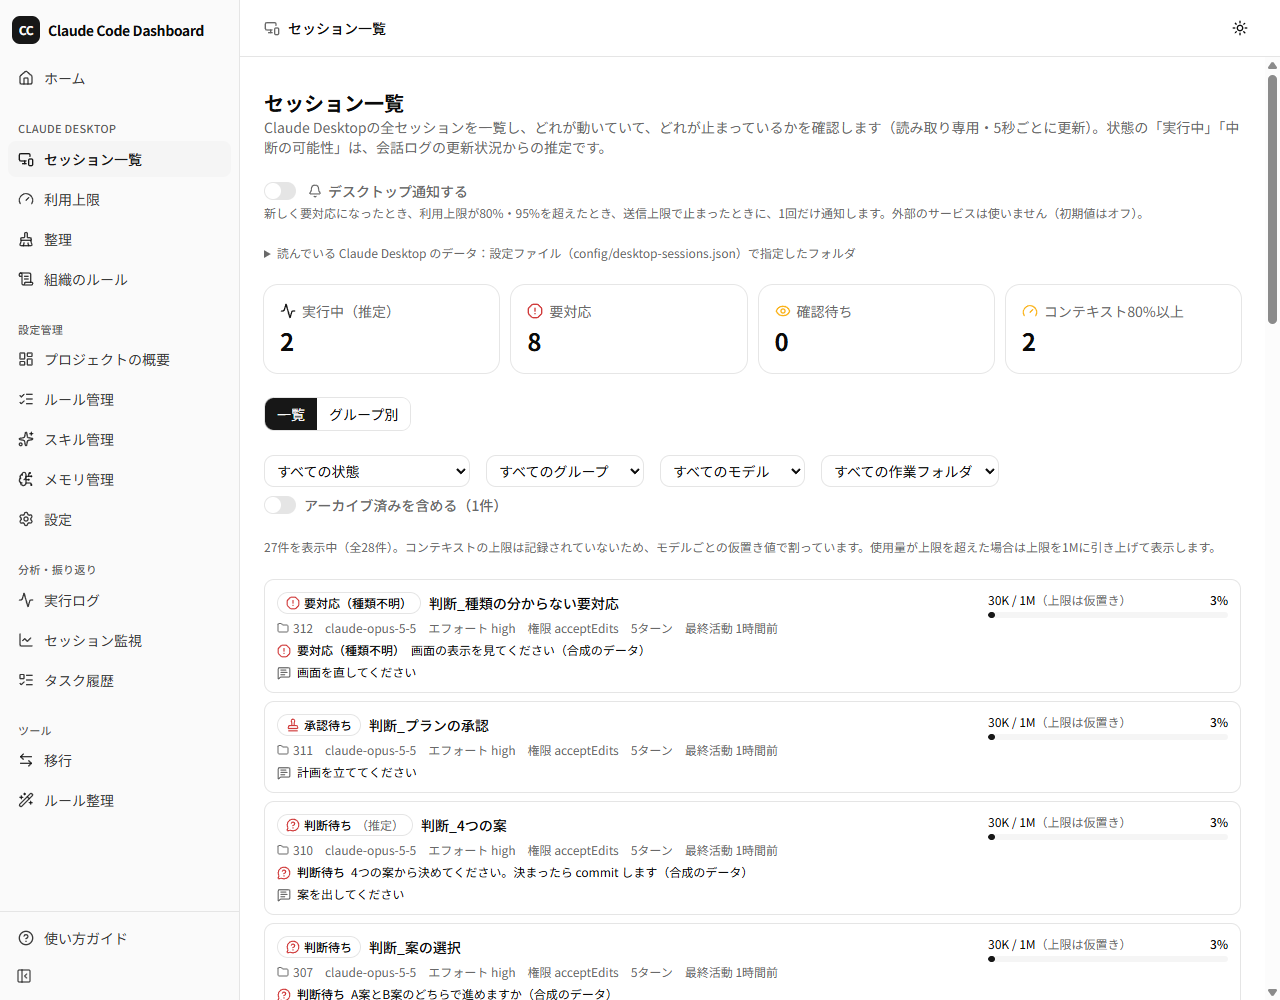
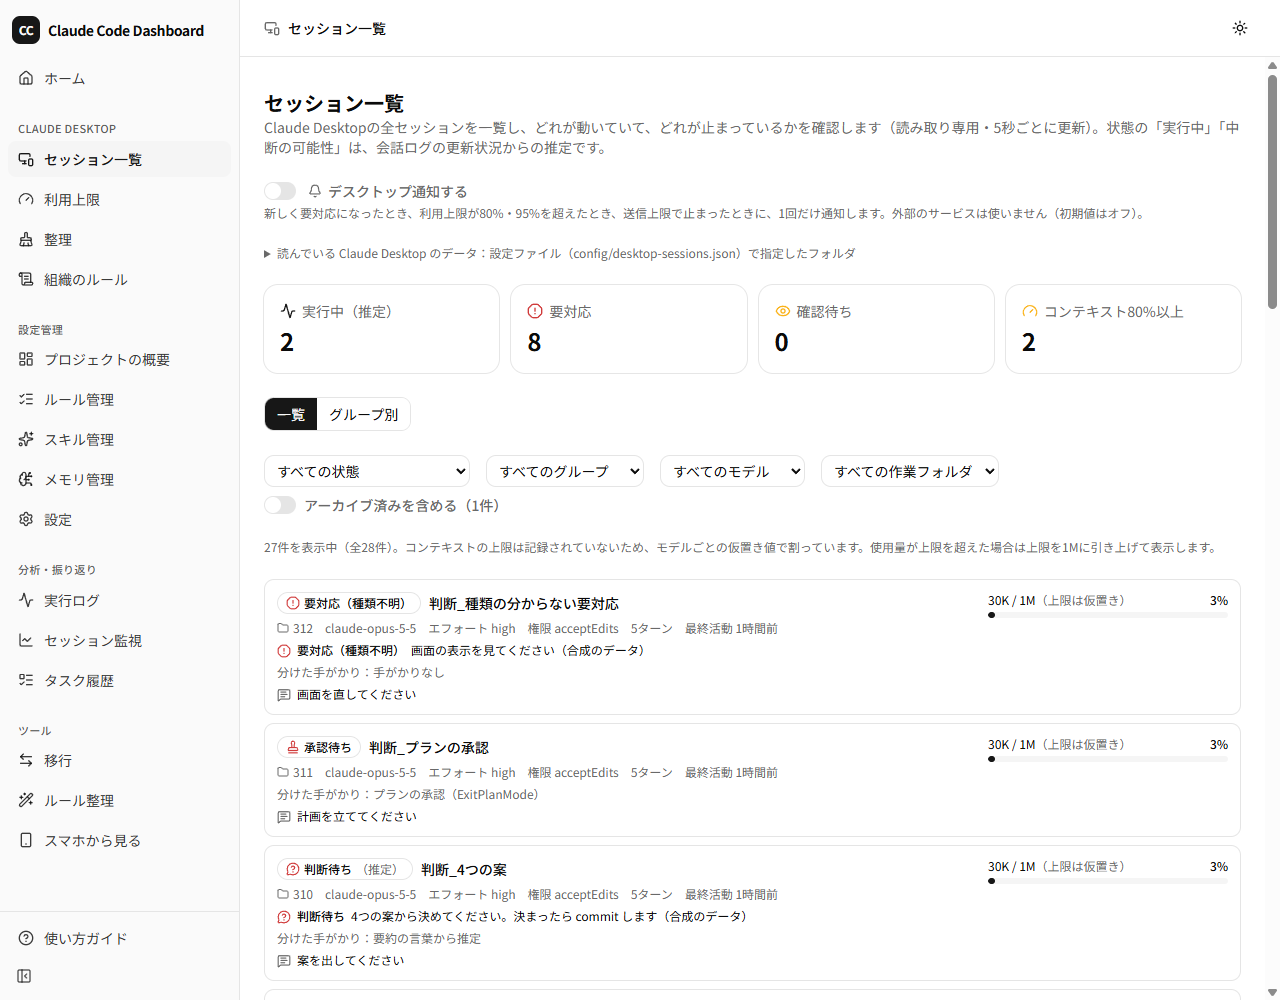
一覧とホームの行に「分けた手がかり」を出し、作業量の色のコメントを直す
- セッション一覧の行とホームの「組織図に出ていないセッション」の行に、要対応・待機を分けた手がかりを出す（整理ページ・詳細と同じ文言。sessionClueLabel、テストを足す）
- globals.css のコメントの作業量の色を、定義のとおり --work-lap-1〜4 にする
- 手がかりの行が写るセッション一覧の画像を撮り直す

diff --git a/src/components/home/OutsideSessionsList.tsx b/src/components/home/OutsideSessionsList.tsx
@@ -3,6 +3,7 @@ import { ArrowRight } from "lucide-react"
 import { Badge } from "@/components/ui/badge"
 import type { DesktopSessionSummary } from "@/lib/desktopSessionTypes"
 import { selectOutsideSessions } from "@/lib/homeDashboard"
+import { sessionClueLabel } from "@/lib/needsActionKind"
 import { SendCountBadge } from "@/components/desktopSessions/Messaging"
 import { DesktopStatusBadge } from "@/components/desktopSessions/statusMeta"
 
@@ -53,33 +54,42 @@ export function OutsideSessionsList({ sessions, shownIds, failed = false, onSele
         <p className="text-xs text-muted-foreground">ありません。すべてのセッションが組織図に出ています。</p>
       ) : (
         <ul className="divide-y rounded-xl border bg-card">
-          {items.map((s) => (
-            <li key={s.id}>
-              <button
-                type="button"
-                onClick={() => onSelect(s.id)}
-                className="flex w-full min-w-0 flex-wrap items-center gap-x-3 gap-y-1 px-3 py-2 text-left text-sm hover:bg-muted"
-                data-testid="home-outside-row"
-                data-session-id={s.id}
-              >
-                <DesktopStatusBadge status={s.status} reason={s.statusReason} info={s.needsActionInfo} standby={s.standbyInfo} />
-                <span className="min-w-0 flex-1 truncate font-medium" title={s.title}>
-                  {s.title}
-                </span>
-                {s.group ? (
-                  <Badge variant="secondary" className="shrink-0">
-                    {s.group.name}
-                  </Badge>
-                ) : (
-                  <span className="shrink-0 text-xs text-muted-foreground">グループなし</span>
-                )}
-                <SendCountBadge messaging={s.messaging} />
-                <span className="shrink-0 text-xs tabular-nums text-muted-foreground">
-                  コンテキスト {s.context ? `${Math.round(s.context.ratio * 100)}%` : "—"}
-                </span>
-              </button>
-            </li>
-          ))}
+          {items.map((s) => {
+            // 要対応・待機を分けた手がかり(整理ページ・詳細と同じ文言)
+            const clue = sessionClueLabel(s)
+            return (
+              <li key={s.id}>
+                <button
+                  type="button"
+                  onClick={() => onSelect(s.id)}
+                  className="flex w-full min-w-0 flex-wrap items-center gap-x-3 gap-y-1 px-3 py-2 text-left text-sm hover:bg-muted"
+                  data-testid="home-outside-row"
+                  data-session-id={s.id}
+                >
+                  <DesktopStatusBadge status={s.status} reason={s.statusReason} info={s.needsActionInfo} standby={s.standbyInfo} />
+                  <span className="min-w-0 flex-1 truncate font-medium" title={s.title}>
+                    {s.title}
+                  </span>
+                  {s.group ? (
+                    <Badge variant="secondary" className="shrink-0">
+                      {s.group.name}
+                    </Badge>
+                  ) : (
+                    <span className="shrink-0 text-xs text-muted-foreground">グループなし</span>
+                  )}
+                  <SendCountBadge messaging={s.messaging} />
+                  <span className="shrink-0 text-xs tabular-nums text-muted-foreground">
+                    コンテキスト {s.context ? `${Math.round(s.context.ratio * 100)}%` : "—"}
+                  </span>
+                  {clue && (
+                    <span className="basis-full text-xs text-muted-foreground" data-testid="home-outside-clue">
+                      分けた手がかり：{clue}
+                    </span>
+                  )}
+                </button>
+              </li>
+            )
+          })}
         </ul>
       )}
       {total > items.length && (

diff --git a/src/lib/needsActionKind.test.ts b/src/lib/needsActionKind.test.ts
@@ -10,7 +10,7 @@ import { inferStatus, PERMISSION_HINT } from "./desktopSessionStatus"
 import type { DesktopMeta } from "./desktopSessions"
 import { FlowService } from "./flowService"
 import { HousekeepingService } from "./housekeepingService"
-import { classifyNeedsAction, kindFromWords, needsActionSourceLabel, type WrapUpDigest } from "./needsActionKind"
+import { classifyNeedsAction, kindFromWords, needsActionSourceLabel, sessionClueLabel, type WrapUpDigest } from "./needsActionKind"
 import { createDigest, wrapUpDigestOf } from "./transcriptDigest"
 import { statusMetaOf } from "@/components/desktopSessions/statusMeta"
 
@@ -74,6 +74,17 @@ describe("分け方の表（classifyNeedsAction）", () => {
   it("手がかりの名前", () => {
     expect(needsActionSourceLabel("wrap-up-action", ["commit", "verify"])).toBe("wrap_up のボタン（commit）")
     expect(needsActionSourceLabel("summary-words")).toBe("要約の言葉から推定")
+  })
+
+  it("一覧とホームの行の手がかり（sessionClueLabel）は、要対応と待機のときだけ。状態と食い違う情報は出さない", () => {
+    const blocked = { source: "wrap-up-action" as const, buttons: ["commit", "create_pr"] }
+    expect(sessionClueLabel({ status: "blocked", needsActionInfo: blocked, standbyInfo: null })).toBe("wrap_up のボタン（commit・create_pr）")
+    expect(sessionClueLabel({ status: "blocked", needsActionInfo: { source: "summary-words", buttons: [] }, standbyInfo: null })).toBe("要約の言葉から推定")
+    expect(sessionClueLabel({ status: "standby", needsActionInfo: null, standbyInfo: { source: "wrap-up-no-ask" } })).toBe("wrap_up に質問が無い（待つだけ）")
+    // 種類の分からない要対応(needsActionInfo が無い)・ほかの状態は出さない
+    expect(sessionClueLabel({ status: "blocked", needsActionInfo: null, standbyInfo: null })).toBeNull()
+    expect(sessionClueLabel({ status: "running", needsActionInfo: blocked, standbyInfo: null })).toBeNull()
+    expect(sessionClueLabel({ status: "completed", needsActionInfo: null, standbyInfo: { source: "summary-words" } })).toBeNull()
   })
 })
 

diff --git a/src/components/desktopSessions/SessionRow.tsx b/src/components/desktopSessions/SessionRow.tsx
@@ -3,7 +3,7 @@ import { Badge } from "@/components/ui/badge"
 import { cn } from "@/lib/utils"
 import { isInstructionProvisional } from "@/lib/desktopInstruction"
 import type { DesktopSessionSummary } from "@/lib/desktopSessionTypes"
-import { NEEDS_ACTION_KIND_LABEL } from "@/lib/needsActionKind"
+import { NEEDS_ACTION_KIND_LABEL, sessionClueLabel } from "@/lib/needsActionKind"
 import { ContextBar } from "./ContextBar"
 import { InstructionPendingBadge } from "./InstructionPendingBadge"
 import { SendCountBadge, SendLimitNotice } from "./Messaging"
@@ -30,6 +30,8 @@ export function SessionRow({ session: s, highContextRatio, onSelect, parentTitle
   // 要対応の内容の行の見出し。種類が分かっていれば、種類の名前とアイコンにする(⑩)
   const needsLabel = s.needsActionInfo ? NEEDS_ACTION_KIND_LABEL[s.needsActionInfo.kind] : "要対応"
   const NeedsIcon = s.needsActionInfo ? NEEDS_ACTION_ICON[s.needsActionInfo.kind] : OctagonAlert
+  // 要対応・待機を分けた手がかり(整理ページ・詳細と同じ文言)
+  const clue = sessionClueLabel(s)
   // 人の指示を表示している間に、他セッション・通知からの入力が届いていたら、その旨を添える
   const newerOtherInput =
     instruction?.origin === "human" && s.latestInputOrigin !== null && s.latestInputOrigin !== "human"
@@ -112,6 +114,11 @@ export function SessionRow({ session: s, highContextRatio, onSelect, parentTitle
                 <span className="min-w-0 truncate" title={s.needsActionExcerpt}>
                   {s.needsActionExcerpt}
                 </span>
+              </p>
+            )}
+            {clue && (
+              <p className="text-xs text-muted-foreground" data-testid="row-needs-action-source">
+                分けた手がかり：{clue}
               </p>
             )}
 

diff --git a/src/lib/needsActionKind.ts b/src/lib/needsActionKind.ts
@@ -144,6 +144,20 @@ export function needsActionSourceLabel(source: NeedsActionSource, actions: strin
   }
 }
 
+/**
+ * 一覧とホームの行に出す「分けた手がかり」。要対応(種類つき)と待機のときだけ返し、ほかの状態は null。
+ * 状態と食い違う情報(要対応でないのに残った needsActionInfo など)は出さない
+ */
+export function sessionClueLabel(s: {
+  status: string
+  needsActionInfo: { source: NeedsActionSource; buttons: string[] } | null
+  standbyInfo: { source: NeedsActionSource } | null
+}): string | null {
+  if (s.status === "blocked" && s.needsActionInfo) return needsActionSourceLabel(s.needsActionInfo.source, s.needsActionInfo.buttons)
+  if (s.status === "standby" && s.standbyInfo) return needsActionSourceLabel(s.standbyInfo.source)
+  return null
+}
+
 /** 並びの順(すぐ押せるものを上に)。小さいほど上 */
 export const NEEDS_ACTION_KIND_RANK: Record<NeedsActionKind, number> = {
   permission: 0,

diff --git a/src/app/globals.css b/src/app/globals.css
@@ -166,7 +166,7 @@
 
 /*
  * 組織図アニメーション(⑤)。粒・線・脈動の色。指示=青、報告=緑、他のグループ・外部=紫、作業中=橙(--status-serious)。
- * 作業量のバーは量の表示なので、この色ではなく --work-lap-1〜5 を使う(OrgCard)。
+ * 作業量のバーは量の表示なので、この色ではなく --work-lap-1〜4 を使う(OrgCard)。
  * 色だけに頼らず、線の種類(実線・破線・点線)と文言も併記する。
  */
 :root {
